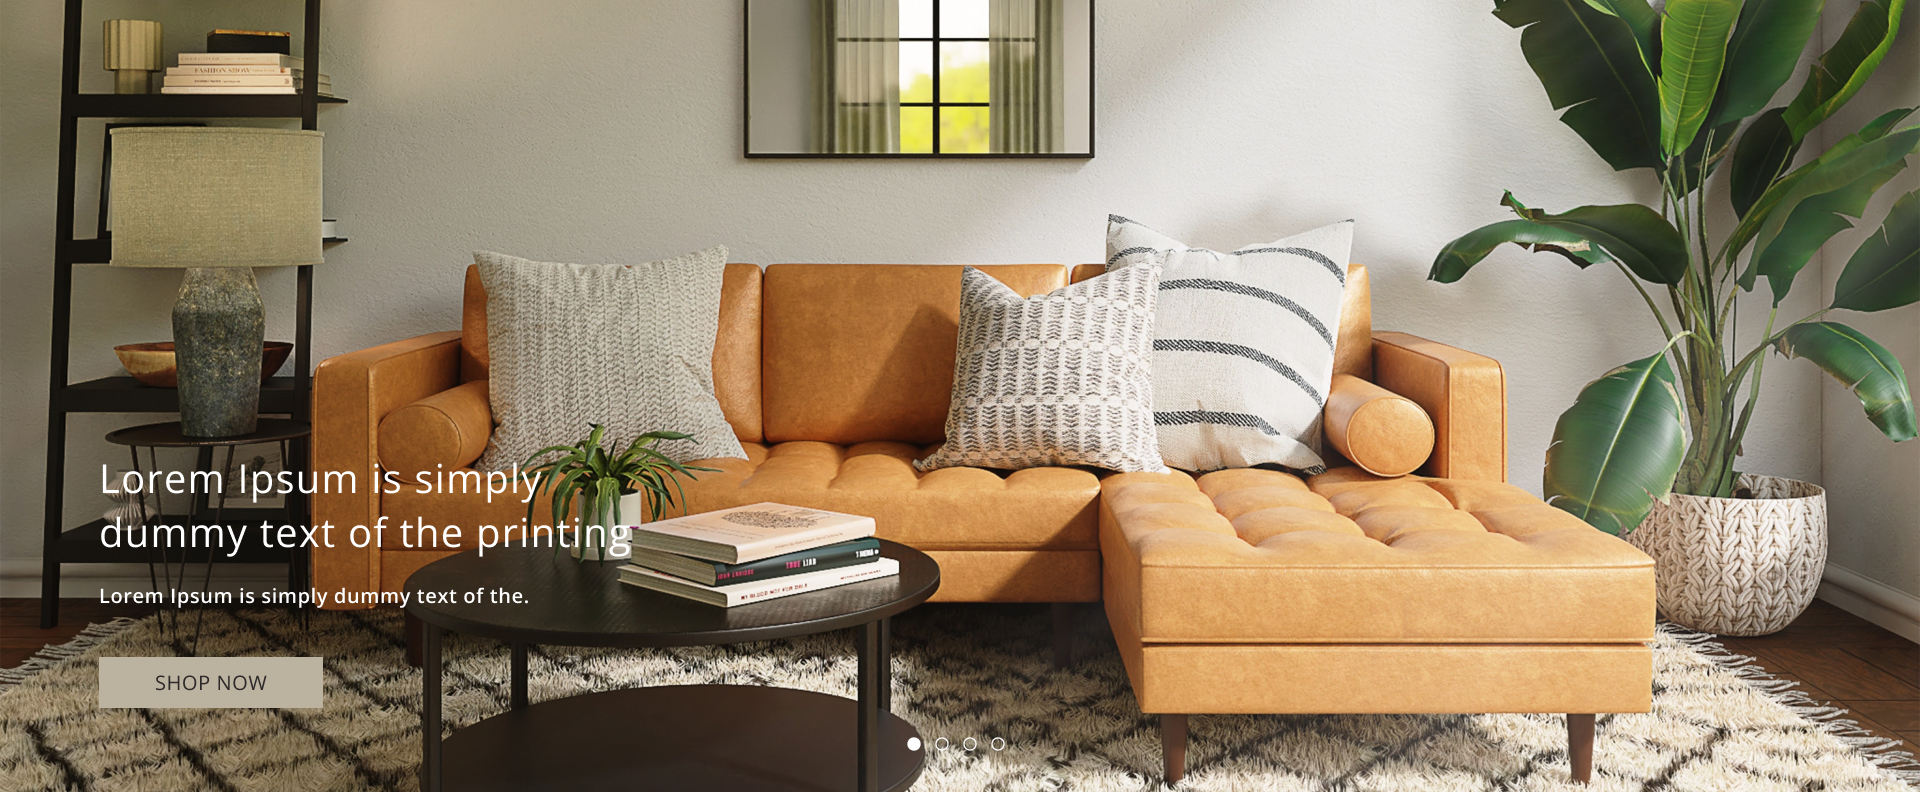
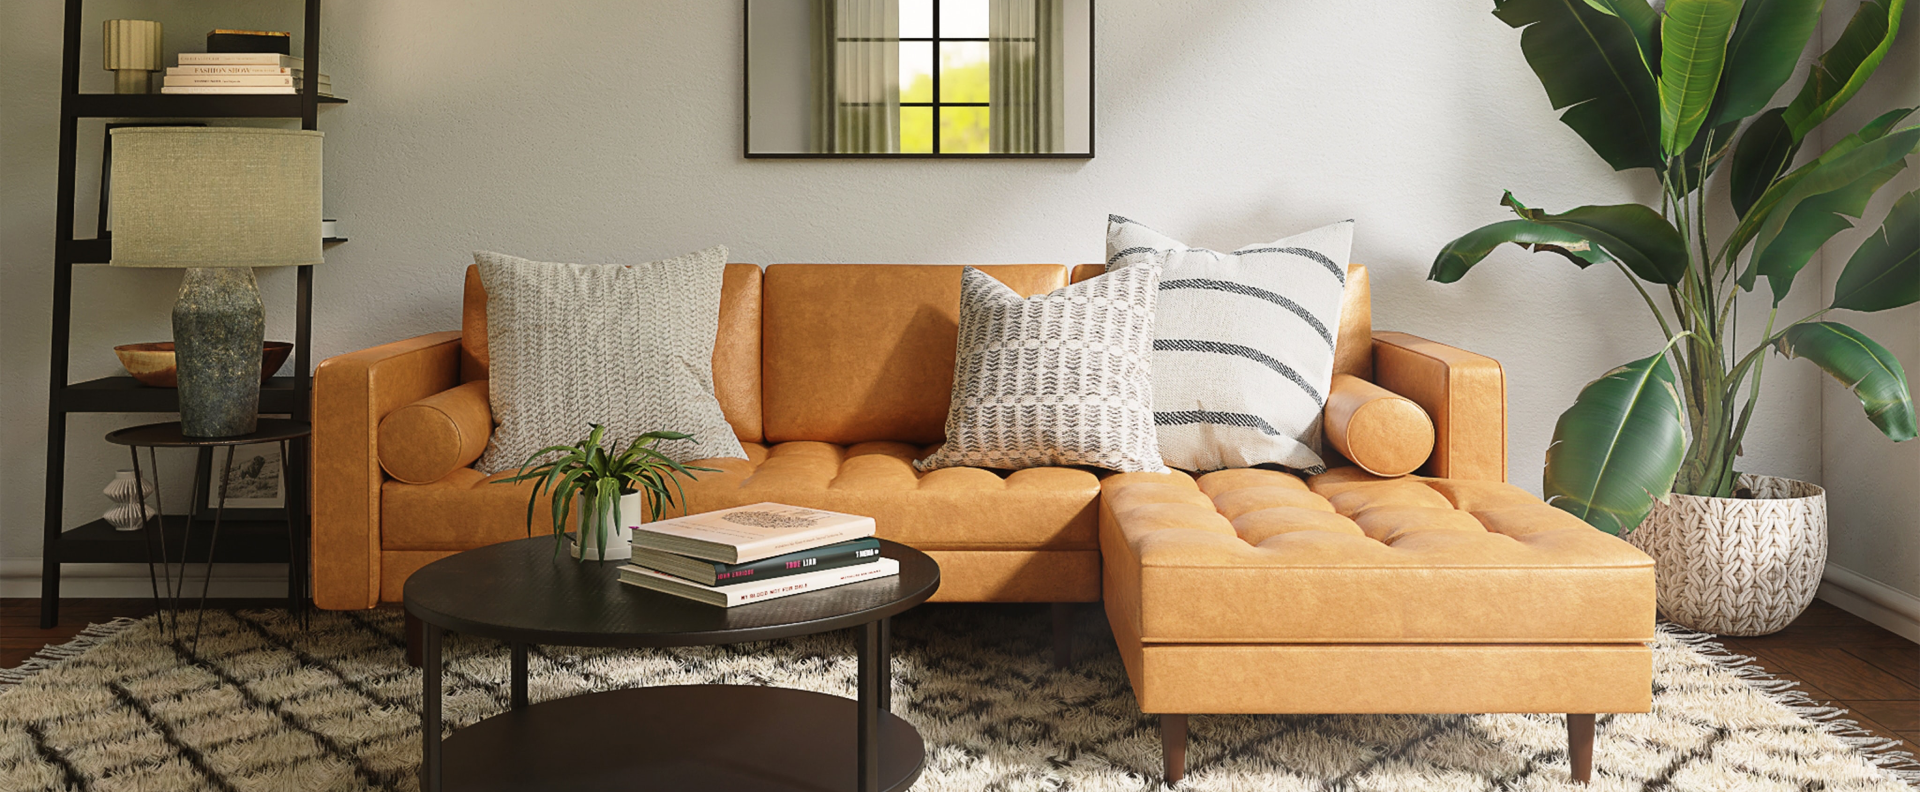
slider description adeed

Changed region(s): [[0.0312, 0.5758, 0.3438, 0.697], [0.0312, 0.8182, 0.1875, 0.9091], [0.0625, 0.7273, 0.2812, 0.7576]]

diff --git a/client/src/components/Slider/Slider.js b/client/src/components/Slider/Slider.js
@@ -6,7 +6,7 @@ import slider1 from "../../assets/slider/slider1.png";
 import "swiper/css";
 import "swiper/css/pagination";
 
-import "./Styles.css";
+import "./Slider.css";
 
 // import required modules
 import { Pagination } from "swiper";
@@ -17,12 +17,27 @@ const Slider = () => {
       <Swiper pagination={true} modules={[Pagination]} className="mySwiper">
         <SwiperSlide>
           <img src={slider1} />
+          <div className="description">
+            <h3>Lorem Ipsum is simply dummy text of the printing</h3>
+            <p>Lorem Ipsum is simply dummy text of the</p>
+            <button className="slider_btn">SHOP NOW</button>
+          </div>
         </SwiperSlide>
         <SwiperSlide>
           <img src={slider1} />
+          <div className="description">
+            <h3>Lorem Ipsum is simply dummy text of the printing</h3>
+            <p>Lorem Ipsum is simply dummy text of the</p>
+            <button className="slider_btn">SHOP NOW</button>
+          </div>
         </SwiperSlide>
         <SwiperSlide>
           <img src={slider1} />
+          <div className="description">
+            <h3>Lorem Ipsum is simply dummy text of the printing</h3>
+            <p>Lorem Ipsum is simply dummy text of the</p>
+            <button className="slider_btn">SHOP NOW</button>
+          </div>
         </SwiperSlide>
         <SwiperSlide>
           <img src={slider1} />

diff --git a/client/src/components/Slider/Slider.css b/client/src/components/Slider/Slider.css
@@ -1,0 +1,45 @@
+.swiper {
+  width: 100%;
+  height: 100%;
+  position: relative;
+}
+
+.description {
+  color: #ffffff;
+  position: absolute;
+  max-width: 533px;
+  left: 99px;
+  bottom: 84px;
+  display: flex;
+  flex-direction: column;
+  gap: 18px;
+  align-items: flex-start;
+}
+.description h3 {
+  font-size: 40px;
+  text-align: left;
+}
+.description p {
+  font-size: 20px;
+}
+.slider_btn {
+  display: inline-block;
+  font-size: 20px;
+  position: relative;
+  text-align: center;
+  padding: 0.5em 1em;
+  background: #bcb2a0;
+  color: #2d2929;
+  transition: box-shadow 0.2s ease-in-out;
+  cursor: pointer;
+}
+
+.swiper-slide img {
+  display: block;
+  width: 100%;
+  height: 100%;
+  object-fit: cover;
+}
+.swiper-pagination-bullet-active {
+  background-color: #ffffff !important;
+}
